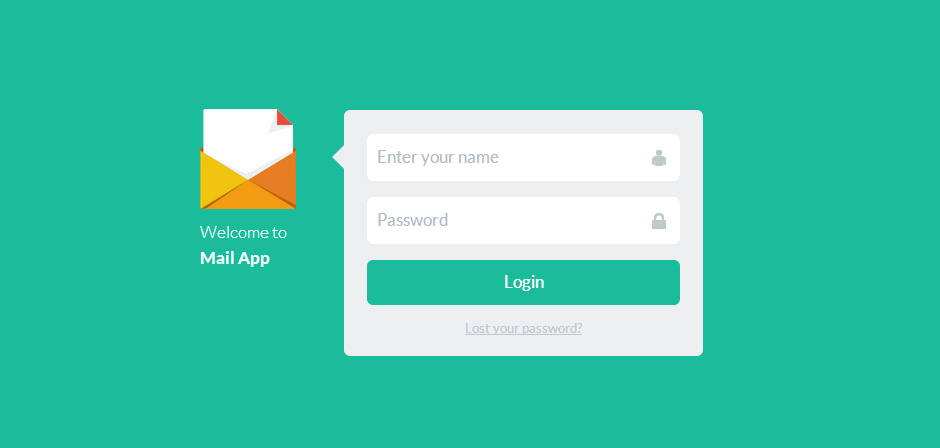
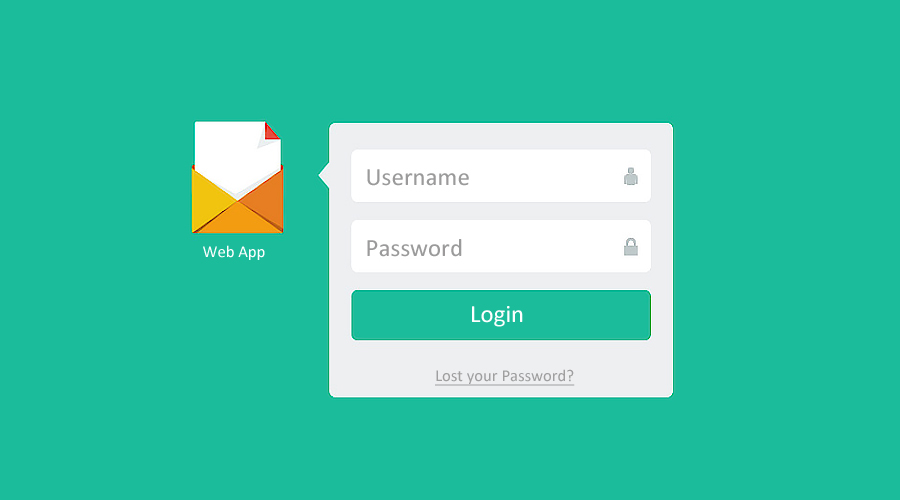
add two pics

diff --git a/web_lancer.html b/web_lancer.html
@@ -85,12 +85,12 @@
   <!-- Wrapper for slides -->
   <div class="carousel-inner">
     <div class="item active">
-      <img src="index.svg" alt="...">
+      <img src="desktop.jpg" alt="...">
       <div class="carousel-caption">
       </div>
     </div>
     <div class="item">
-      <img src="index.svg" alt="...">
+      <img src="web_app.jpg" alt="...">
       <div class="carousel-caption">
       </div>
     </div>
